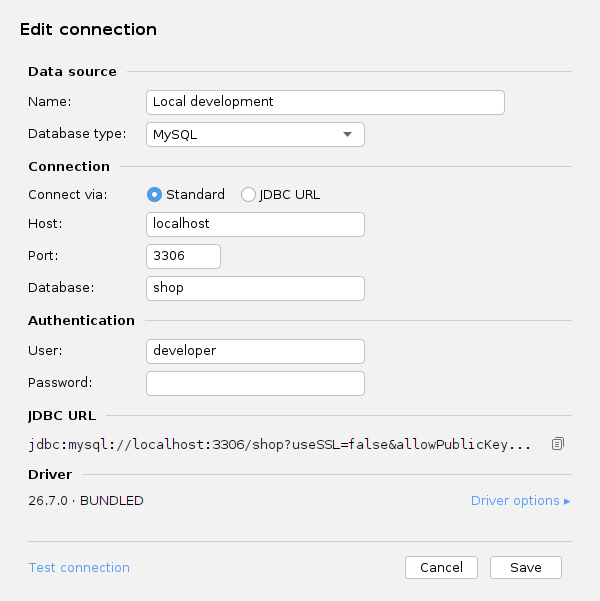
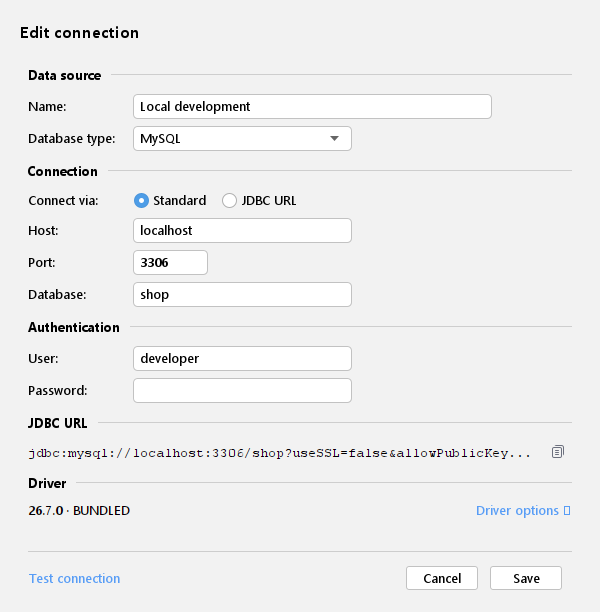
Fix light theme table and toolbar UI

diff --git a/src/uiTest/kotlin/com/segfault03/ideadb/ui/IntellijUiScreenshotTest.kt b/src/uiTest/kotlin/com/segfault03/ideadb/ui/IntellijUiScreenshotTest.kt
@@ -77,9 +77,13 @@ class IntellijUiScreenshotTest {
             Files.isRegularFile(mavenRepository.resolve("com/mysql/mysql-connector-j/$version/mysql-connector-j-$version.jar"))
         }) { "Expected the MySQL Connector/J Maven fixtures in $mavenRepository" }
         Files.createDirectories(projectDirectory.resolve(".idea"))
+        projectDirectory.resolve(".idea/.name").writeText("lattice-ui-test")
+        // JDBC dependencies are supplied locally. Resolving Maven build plugins
+        // over the network can otherwise keep startup indicators busy for minutes.
         projectDirectory.resolve(".idea/workspace.xml").writeText("""
             <project version="4"><component name="MavenImportPreferences">
               <option name="generalSettings"><MavenGeneralSettings>
+                <option name="workOffline" value="true"/>
                 <option name="localRepository" value="${mavenRepository.toString().replace("&", "&amp;").replace("\"", "&quot;")}"/>
               </MavenGeneralSettings></option>
             </component></project>
@@ -97,6 +101,12 @@ class IntellijUiScreenshotTest {
             CurrentTestMethod.hyphenateWithClass(),
             TestCase(ideInfo, LocalProjectInfo(projectDirectory)),
         )
+        // Windows' native idea64 launcher does not consume JDK_JAVA_OPTIONS.
+        // Keep the IDE and the Driver/Robot test JVM in the same coordinate space.
+        testContext.applyVMOptionsPatch {
+            addSystemProperty("sun.java2d.uiScale", "1.0")
+            addSystemProperty("ide.ui.scale", "1.0")
+        }
         // Starter keeps the test IDE's config between runs. Reset only this test plugin's
         // saved connections so every run begins at the same real empty-state screen.
         Files.deleteIfExists(testContext.paths.configDir.resolve("options/LatticeSettings.xml"))
@@ -774,6 +784,19 @@ class IntellijUiScreenshotTest {
             captureScreen(screenshotsDirectory.resolve("table-auto-refresh-options.png"))
             pressEscape()
             if (styleOnly) {
+                assertFilterLayout(tableEditor, 1)
+                tableEditor.x { byAccessibleName("Export data") }.waitFound().click()
+                captureScreen(screenshotsDirectory.resolve("table-export-menu.png"))
+                frame.x { byVisibleText("Current page (includes pending edits)") }.waitFound().click()
+                val sqlExport = frame.xx { byVisibleText("SQL…") }.list().first {
+                    withContext(OnDispatcher.EDT) {
+                        cast(it.component, LiveMenuItem::class).getParent().getInvoker().getText() == "Current page (includes pending edits)"
+                    }
+                }
+                captureScreen(screenshotsDirectory.resolve("table-export-sql-submenu.png"))
+                assertPaintedSurface(sqlExport, dataGrid, "SQL export submenu")
+                pressEscape()
+                pressEscape()
                 frame.resize(narrowWidth, narrowHeight)
                 openToolbarOverflow(tableEditor, "Table actions").also {
                     captureScreen(screenshotsDirectory.resolve("table-narrow-toolbar-expanded-pending.png"))
@@ -783,15 +806,58 @@ class IntellijUiScreenshotTest {
                     assertActionContrast(it.x { byAccessibleName("Revert pending changes") }.waitFound())
                     closeToolbarOverflow(it)
                 }
+                frame.resize(normalWidth, normalHeight)
+                databaseTree.fixture.rightClickPath(peoplePath.joinToString(databaseTree.fixture.separator()))
+                frame.x { byVisibleText("Open in SQL console") }.waitFound().click()
+                val console = frame.x { byJavaClass("com.segfault03.ideadb.ui.SqlQueryConsolePanel") }.waitFound()
+                waitUntil("console database picker ready") { console.x { byVisibleText("Run") }.waitFound().component.isEnabled() }
+                captureScreen(screenshotsDirectory.resolve("sql-console-ready.png"))
+                val reviewedLightThemes = mutableListOf(themeId)
+                // Reuse the live table and console to check every bundled light
+                // palette without repeating IDE startup and database setup.
+                if (System.getProperty("ui.style.lightThemes").toBoolean()) {
+                    for (lightTheme in listOf("ExperimentalLight", "ExperimentalLightWithLightHeader",
+                        "IntelliJ", "JetBrainsLightTheme", "Islands Light").filter {
+                        it != themeId && (it != "Islands Light" || "Islands Light" in availableThemes)
+                    }) {
+                        withContext(OnDispatcher.EDT) {
+                            laf.setCurrentLookAndFeel(laf.findLaf(lightTheme), true)
+                            laf.updateUI()
+                        }
+                        check(laf.getCurrentUIThemeLookAndFeel().getId() == lightTheme)
+                        val themeDirectory = screenshotsDirectory.resolve(lightTheme)
+                        Files.createDirectories(themeDirectory)
+                        captureScreen(themeDirectory.resolve("sql-console-ready.png"))
+                        databaseTree.fixture.rightClickPath(peoplePath.joinToString(databaseTree.fixture.separator()))
+                        frame.x { byVisibleText("Open data editor") }.waitFound().click()
+                        assertFilterLayout(tableEditor, 1)
+                        captureScreen(themeDirectory.resolve("table-filters.png"))
+                        tableEditor.x { byAccessibleName("Export data") }.waitFound().click()
+                        frame.x { byVisibleText("Current page (includes pending edits)") }.waitFound().click()
+                        val themedSqlExport = frame.xx { byVisibleText("SQL…") }.list().first {
+                            withContext(OnDispatcher.EDT) {
+                                cast(it.component, LiveMenuItem::class).getParent().getInvoker().getText() == "Current page (includes pending edits)"
+                            }
+                        }
+                        captureScreen(themeDirectory.resolve("table-export-sql-submenu.png"))
+                        assertPaintedSurface(themedSqlExport, dataGrid, "$lightTheme SQL export submenu")
+                        pressEscape()
+                        pressEscape()
+                        databaseTree.fixture.rightClickPath(peoplePath.joinToString(databaseTree.fixture.separator()))
+                        frame.x { byVisibleText("Open in SQL console") }.waitFound().click()
+                        reviewedLightThemes.add(lightTheme)
+                    }
+                }
                 Files.writeString(screenshotsDirectory.resolve("runtime-evidence.txt"), buildString {
                     appendLine("IDE target: IntelliJ IDEA $productCode ${System.getProperty("ui.ide.version")} (${System.getProperty("ui.ide.build")})")
                     appendLine("Actual IDE theme: ${actualTheme.getName()} (${actualTheme.getId()})")
                     appendLine("Available IDE themes: $availableThemes")
+                    appendLine("Light theme palettes reviewed: $reviewedLightThemes")
                     appendLine("UI driver: JetBrains Starter and Driver; real production DatabaseMainPanel, TableDataEditorPanel, DatabaseTable and JTable editors")
                     appendLine("IDE JBR release: ${Files.readString(ideHome.resolve("jbr/release")).lineSequence().filter { it.startsWith("JAVA_VERSION=") || it.startsWith("IMPLEMENTOR=") }.joinToString(", ")}")
                     appendLine("IDE display: ${displayBounds.width}x${displayBounds.height}; scale 1")
                     appendLine("Verified: six explorer actions in native hover overflow and working Add Connection invoker; failed connection status; valid/invalid/unchanged table edits; text and integer editor theme surfaces; native menu background; full auto-refresh caption; white active action labels and painted glyphs in normal and overflow toolbars")
-                    appendLine("Scope: focused UI regressions; the default review continues through commit, export, alter-table and SQL flows")
+                    appendLine("Scope: focused UI regressions including SQL export submenu palette, table filters and console layout; the default review continues through commit, export, alter-table and SQL flows")
                 })
                 println("Focused real IDE UI regression review passed: $themeId")
                 return@useDriverAndCloseIde
@@ -1545,7 +1611,15 @@ class IntellijUiScreenshotTest {
         val popups = toolbar.driver.ui.xx {
             byType("com.intellij.openapi.actionSystem.impl.ActionToolbarImpl\$PopupToolbar")
         }.list().map { toolbar.driver.cast(it.component, LiveSwingComponent::class) }
-        Robot().mouseMove(10, 10)
+        var outside = Point()
+        toolbar.driver.ui.ideFrame {
+            val origin = component.getLocationOnScreen()
+            outside = Point(origin.x + component.width / 2, origin.y + component.height / 2)
+        }
+        val robot = Robot()
+        robot.mouseMove(outside.x, outside.y)
+        robot.mousePress(InputEvent.BUTTON1_DOWN_MASK)
+        robot.mouseRelease(InputEvent.BUTTON1_DOWN_MASK)
         pressEscape()
         waitUntil("native hover toolbar dismissed") {
             popups.all { !it.isShowing() }

diff --git a/src/main/java/com/segfault03/ideadb/ui/TableFilterPanel.java b/src/main/java/com/segfault03/ideadb/ui/TableFilterPanel.java
@@ -8,7 +8,9 @@ import java.awt.*;
 final class TableFilterPanel extends JPanel {
     private final JComponent where, order;
     private final JButton apply;
+    private final JPanel remainder = new JPanel();
     private int rows;
+    private boolean shrinking;
 
     TableFilterPanel(JComponent where, JComponent order, JButton apply) {
         super(new GridBagLayout());
@@ -23,6 +25,10 @@ final class TableFilterPanel extends JPanel {
             add(group);
         }
         add(apply);
+        remainder.setOpaque(false);
+        remainder.setPreferredSize(new Dimension());
+        remainder.setMinimumSize(new Dimension());
+        add(remainder);
     }
 
     @Override public Dimension getPreferredSize() { configure(); return super.getPreferredSize(); }
@@ -36,12 +42,18 @@ final class TableFilterPanel extends JPanel {
         int actionWidth = apply.getPreferredSize().width;
         int next = width <= 0 || width >= where.getMinimumSize().width + order.getMinimumSize().width + actionWidth + 2 * gap
                 ? 1 : width >= order.getMinimumSize().width + actionWidth + gap ? 2 : 3;
-        if (next == rows) return;
+        boolean shrink = next == 1 && width > 0
+                && width < where.getPreferredSize().width + order.getPreferredSize().width + actionWidth + 2 * gap;
+        if (next == rows && shrink == shrinking) return;
         rows = next;
+        shrinking = shrink;
         GridBagLayout layout = (GridBagLayout) getLayout();
-        layout.setConstraints(where, cell(0, 0, rows == 1 ? 1 : 2, .6, rows == 1 ? gap : 0));
-        layout.setConstraints(order, cell(rows == 1 ? 1 : 0, rows == 1 ? 0 : 1, rows == 3 ? 2 : 1, .4, rows == 3 ? 0 : gap));
+        layout.setConstraints(where, cell(0, 0, rows == 1 ? 1 : 2, shrink ? .6 : 0, rows == 1 ? gap : 0));
+        layout.setConstraints(order, cell(rows == 1 ? 1 : 0, rows == 1 ? 0 : 1, rows == 3 ? 2 : 1, shrink ? .4 : 0, rows == 3 ? 0 : gap));
         layout.setConstraints(apply, cell(rows == 1 ? 2 : rows == 2 ? 1 : 0, rows == 1 ? 0 : rows == 2 ? 1 : 2, 1, 0, 0));
+        GridBagConstraints trailing = cell(rows == 1 ? 3 : 2, 0, 1, shrink ? 0 : 1, 0);
+        trailing.gridheight = rows;
+        layout.setConstraints(remainder, trailing);
     }
 
     private static GridBagConstraints cell(int column, int row, int span, double weight, int rightGap) {
@@ -51,7 +63,7 @@ final class TableFilterPanel extends JPanel {
         cell.gridwidth = span;
         cell.weightx = weight;
         cell.anchor = GridBagConstraints.WEST;
-        cell.fill = weight > 0 ? GridBagConstraints.HORIZONTAL : GridBagConstraints.NONE;
+        cell.fill = GridBagConstraints.HORIZONTAL;
         cell.insets = JBUI.insets(row > 0 ? 4 : 0, 0, 0, 0);
         cell.insets.right = rightGap;
         return cell;

diff --git a/src/test/java/com/segfault03/ideadb/ui/TableFilterPanelTest.java b/src/test/java/com/segfault03/ideadb/ui/TableFilterPanelTest.java
@@ -1,0 +1,44 @@
+package com.segfault03.ideadb.ui;
+
+import org.junit.jupiter.api.Test;
+import javax.swing.*;
+import java.awt.*;
+import static org.junit.jupiter.api.Assertions.*;
+
+class TableFilterPanelTest {
+    @Test void filtersStayCompactAndWrapWithoutClipping() throws Exception {
+        SwingUtilities.invokeAndWait(() -> {
+            JPanel where = DatabaseUi.labeledInput(new JLabel("WHERE"), DatabaseInputs.textField(20));
+            JPanel order = DatabaseUi.labeledInput(new JLabel("ORDER BY"), DatabaseInputs.textField(14));
+            JButton apply = DatabaseUi.action("Apply", null, "Apply filter");
+            TableFilterPanel panel = new TableFilterPanel(where, order, apply);
+            int compactWidth = where.getPreferredSize().width + order.getPreferredSize().width
+                    + apply.getPreferredSize().width + com.intellij.util.ui.JBUI.scale(16);
+            for (int width : new int[]{1600, compactWidth, 450, 230, 1600}) {
+                panel.setSize(width, 150);
+                panel.doLayout();
+                where.doLayout();
+                order.doLayout();
+                for (Component control : new Component[]{where, order, apply}) {
+                    assertTrue(control.getX() >= 0);
+                    assertTrue(control.getX() + control.getWidth() <= width);
+                    assertTrue(control.getHeight() > 0);
+                }
+                if (width >= compactWidth) {
+                    assertEquals(where.getPreferredSize().width, where.getWidth());
+                    assertEquals(order.getPreferredSize().width, order.getWidth());
+                    assertEquals(where.getY(), order.getY());
+                    if (width == 1600) assertTrue(apply.getX() + apply.getWidth() < width / 2);
+                } else if (width == 230) assertTrue(order.getY() > where.getY());
+                else assertEquals(where.getY(), order.getY(), "Intermediate widths shrink fields before wrapping");
+                for (JPanel group : new JPanel[]{where, order}) {
+                    BorderLayout layout = (BorderLayout) group.getLayout();
+                    Component label = layout.getLayoutComponent(BorderLayout.WEST);
+                    Component field = layout.getLayoutComponent(BorderLayout.CENTER);
+                    assertEquals(layout.getHgap(), field.getX() - label.getX() - label.getWidth());
+                    assertTrue(field.getWidth() >= 80);
+                }
+            }
+        });
+    }
+}

diff --git a/src/main/java/com/segfault03/ideadb/ui/TableDataEditorPanel.java b/src/main/java/com/segfault03/ideadb/ui/TableDataEditorPanel.java
@@ -138,9 +138,6 @@ public class TableDataEditorPanel extends JPanel implements AutoCloseable {
         filterBtn.addActionListener(e -> loadData(1, pageSize));
         JBLabel whereLabel = new JBLabel("WHERE");
         JBLabel orderLabel = new JBLabel("ORDER BY");
-        int filterLabelWidth = Math.max(whereLabel.getPreferredSize().width, orderLabel.getPreferredSize().width);
-        whereLabel.setPreferredSize(new Dimension(filterLabelWidth, whereLabel.getPreferredSize().height));
-        orderLabel.setPreferredSize(new Dimension(filterLabelWidth, orderLabel.getPreferredSize().height));
         JPanel filters = new TableFilterPanel(DatabaseUi.labeledInput(whereLabel, whereField),
                 DatabaseUi.labeledInput(orderLabel, orderField), filterBtn);
         filters.setBorder(BorderFactory.createCompoundBorder(
@@ -824,7 +821,7 @@ public class TableDataEditorPanel extends JPanel implements AutoCloseable {
     }
 
     private void addExportFormats(JPopupMenu menu,String label,ExportScope scope) {
-        JMenu submenu=new JMenu(label);
+        JMenu submenu=DatabaseUi.submenu(label);
         for(String format:new String[]{"csv","json","sql"}) {
             JMenuItem item=new JMenuItem(format.toUpperCase(java.util.Locale.ROOT) + "…");
             item.addActionListener(event -> exportData(format,scope)); submenu.add(item);

diff --git a/src/test/java/com/segfault03/ideadb/ui/DatabaseUiTest.java b/src/test/java/com/segfault03/ideadb/ui/DatabaseUiTest.java
@@ -7,6 +7,27 @@ import java.awt.*;
 import static org.junit.jupiter.api.Assertions.*;
 
 class DatabaseUiTest {
+    @Test void exportSubmenusUseTheNativePopupSurfaceAndKeepSwingMenuNavigation() throws Exception {
+        SwingUtilities.invokeAndWait(() -> {
+            JMenu submenu = DatabaseUi.submenu("Current page");
+            JMenuItem sql = new JMenuItem("SQL…");
+            java.util.concurrent.atomic.AtomicInteger calls = new java.util.concurrent.atomic.AtomicInteger();
+            sql.addActionListener(event -> calls.incrementAndGet());
+            submenu.add(sql);
+            for (int pass = 0; pass < 2; pass++) {
+                if (pass > 0) SwingUtilities.updateComponentTreeUI(submenu);
+                JPopupMenu popup = submenu.getPopupMenu();
+                assertFalse(popup.isOpaque());
+                assertFalse(popup.isLightWeightPopupEnabled());
+                assertSame(submenu, popup.getInvoker());
+                assertSame(sql, submenu.getItem(0));
+                assertSame(popup, submenu.getSubElements()[0]);
+            }
+            sql.doClick(0);
+            assertEquals(1, calls.get());
+        });
+    }
+
     @Test void emphasizedGlyphIsWhiteRatherThanGrayAndPreservesTransparency() throws Exception {
         SwingUtilities.invokeAndWait(() -> {
             Icon gray = new Icon() {

diff --git a/src/main/java/com/segfault03/ideadb/ui/DatabaseExplorerToolbar.java b/src/main/java/com/segfault03/ideadb/ui/DatabaseExplorerToolbar.java
@@ -24,9 +24,7 @@ final class DatabaseExplorerToolbar extends JPanel {
                             Runnable removeConnection, Runnable refreshConnection,
                             Runnable openConsole, Runnable showHelp) {
         setLayout(new BoxLayout(this, BoxLayout.X_AXIS));
-        setBorder(BorderFactory.createCompoundBorder(
-                JBUI.Borders.customLineBottom(JBUI.CurrentTheme.ActionButton.SEPARATOR_COLOR),
-                JBUI.Borders.empty(6, 12)));
+        setBorder(JBUI.Borders.empty(6, 12));
         add = button(AllIcons.General.Add, "Add connection…", null, true);
         add.addActionListener(e -> addConnection.accept((Component)e.getSource()));
         edit = button(AllIcons.General.Settings, "Edit connection…", editConnection);
@@ -44,9 +42,6 @@ final class DatabaseExplorerToolbar extends JPanel {
         removeAll(); // Transfer the existing production controls and their listeners.
         JComponent toolbar = DatabaseActionToolbar.create(target, "Explorer actions",
                 add, edit, remove, null, refresh, console, null, help);
-        toolbar.setBorder(BorderFactory.createCompoundBorder(
-                JBUI.Borders.customLineBottom(JBUI.CurrentTheme.ActionButton.SEPARATOR_COLOR),
-                toolbar.getBorder()));
         return toolbar;
     }
 

diff --git a/src/main/java/com/segfault03/ideadb/ui/DatabaseUi.java b/src/main/java/com/segfault03/ideadb/ui/DatabaseUi.java
@@ -22,6 +22,20 @@ public final class DatabaseUi {
     /** Native IDEA popup painting, palette, borders and window handling in every theme. */
     public static JPopupMenu popupMenu() { return new com.intellij.openapi.ui.JBPopupMenu(); }
 
+    /** Match JBPopupMenu's surface/window settings for Swing's internally owned submenus. */
+    public static JMenu submenu(String text) {
+        return new JMenu(text) {
+            @Override public JPopupMenu getPopupMenu() {
+                JPopupMenu popup = super.getPopupMenu();
+                // IDEA's popup UI paints the theme surface; Swing's opaque fill can
+                // cover it with a black rectangle in native light themes.
+                popup.setOpaque(false);
+                popup.setLightWeightPopupEnabled(false);
+                return popup;
+            }
+        };
+    }
+
     /** Every connection entry point offers the same database choice. */
     public static JPopupMenu connectionMenu(Consumer<DatabaseType> choose) {
         JPopupMenu menu = popupMenu();

diff --git a/src/test/java/com/segfault03/ideadb/ui/DatabaseExplorerToolbarTest.java b/src/test/java/com/segfault03/ideadb/ui/DatabaseExplorerToolbarTest.java
@@ -20,6 +20,8 @@ class DatabaseExplorerToolbarTest {
             Runnable action = calls::incrementAndGet;
             DatabaseExplorerToolbar toolbar = new DatabaseExplorerToolbar(
                     component -> action.run(), action, action, action, action, action);
+            assertInstanceOf(javax.swing.border.EmptyBorder.class, toolbar.getBorder(),
+                    "The explorer must leave the section boundary to the IDE tool-window header");
             List<JButton> buttons = new ArrayList<>();
             for (Component child : toolbar.getComponents()) {
                 if (child instanceof JButton button) buttons.add(button);

diff --git a/src/main/java/com/segfault03/ideadb/ui/SqlQueryConsolePanel.java b/src/main/java/com/segfault03/ideadb/ui/SqlQueryConsolePanel.java
@@ -249,10 +249,6 @@ public class SqlQueryConsolePanel extends JPanel implements AutoCloseable {
 
     private JPanel labeledPicker(String text, JComponent picker) {
         JBLabel label = new JBLabel(text);
-        int width = 0;
-        for (String title : new String[]{"Database", "History", "Template"})
-            width = Math.max(width, new JBLabel(title).getPreferredSize().width);
-        label.setPreferredSize(new Dimension(width, label.getPreferredSize().height));
         label.setLabelFor(picker);
         return DatabaseUi.labeledInput(label, picker);
     }

diff --git a/docs/UI_PREVIEW.md b/docs/UI_PREVIEW.md
@@ -36,9 +36,13 @@ python scripts/ui-preview.py --java-home /path/to/jdk-21 --ide-home /path/to/int
 
 `--all-previews` adds light and dark variants to the gallery; `--output` changes generated build output but still refreshes the five README images; `--compare-with` adds a before/after gallery. The helper requires the IntelliJ 2025.1 SDK and JUnit/Hamcrest runtime jars in the selected Gradle cache, or explicit JDK/SDK paths.
 
-These previews show component layout and Swing painting with fixture data. For IDE chrome, live plugin loading, tool-window behavior and database-backed flows, Linux users can use [`capture-intellij-ui.sh`](../scripts/linux/capture-intellij-ui.sh) or [`review-intellij-ui.sh`](../scripts/linux/review-intellij-ui.sh). Windows users can use [`capture-intellij-ui.ps1`](../scripts/windows/capture-intellij-ui.ps1) or [`review-intellij-ui.ps1`](../scripts/windows/review-intellij-ui.ps1) from an interactive desktop session; captures use the primary display, which must be at least 1440×800. Keep the test IDE visible and in the foreground while automation runs. Their setup and output paths are documented in the [script reference](SCRIPTS.md).
+These previews show component layout and Swing painting with fixture data. For IDE chrome, live plugin loading, tool-window behavior and database-backed flows, Linux users can use [`capture-intellij-ui.sh`](../scripts/linux/capture-intellij-ui.sh) or [`review-intellij-ui.sh`](../scripts/linux/review-intellij-ui.sh). Windows users can use [`capture-intellij-ui.ps1`](../scripts/windows/capture-intellij-ui.ps1) or [`review-intellij-ui.ps1`](../scripts/windows/review-intellij-ui.ps1) from an interactive desktop session; captures use the primary display, which must be at least 1440×800. Windows capture automatically restores the newly launched `lattice-ui-test` IDE when another application takes the foreground, preserving focus in IDE dialogs and popups. Allow the capture script to use the desktop while it runs; a locked desktop still prevents capture. Their setup and output paths are documented in the [script reference](SCRIPTS.md).
 
 Windows PowerShell examples:
+
+The test applies 100% scaling directly to the IDE VM options as well as the Driver JVM, so Windows display scaling does not offset automated clicks. The fixture Maven project imports offline from its prepared JDBC repository.
+
+For a focused palette review, pass `-StyleOnly -GradleArgs @('-Plattice.ui.lightThemes=true')` to Windows capture. It switches the running IDE through the bundled light themes (including Islands Light when available) and checks the SQL export submenu against the table palette, saving table and console captures for each theme.
 
 ```powershell
 .\scripts\windows\capture-intellij-ui.ps1 -JavaHome 'C:/path/to/jdk-21' -IdeHome 'C:/path/to/IntelliJ IDEA 2025.1' -InputsOnly

diff --git a/docs/SCRIPTS.md b/docs/SCRIPTS.md
@@ -27,7 +27,7 @@ $assets = 'C:\path\to\test-binaries'
 .\scripts\windows\probe-hsqldb-cancellation.ps1 --java-home "$assets\ides\2025.1\jbr"
 ```
 
-The two Windows UI scripts use native PowerShell flags: `-JavaHome`, `-IdeHome` (IDE to launch), `-BuildIdeHome` (2025.1 compile SDK), `-DownloadDir`, `-BinariesDir`, `-GradleUserHome`, `-Cleanup` / `-NoCleanup`, and `-Python`. Review additionally accepts `-FixtureCache` (mysql/ and hsqldb/ JDBC folders) and `-MavenRepository` (a reusable Maven-layout fixture repository). Missing jars are prepared for both capture and review. The UI bootstrap defaults to retention; cleanup leaves screenshots and logs under build/. Use an interactive desktop with the test IDE in the foreground.
+The two Windows UI scripts use native PowerShell flags: `-JavaHome`, `-IdeHome` (IDE to launch), `-BuildIdeHome` (2025.1 compile SDK), `-DownloadDir`, `-BinariesDir`, `-GradleUserHome`, `-Cleanup` / `-NoCleanup`, and `-Python`. Review additionally accepts `-FixtureCache` (mysql/ and hsqldb/ JDBC folders) and `-MavenRepository` (a reusable Maven-layout fixture repository). Missing jars are prepared for both capture and review. The UI bootstrap defaults to retention; cleanup leaves screenshots and logs under build/. Use an interactive desktop; capture automatically restores the newly launched test IDE to the foreground while preserving its dialogs and menus.
 
 ```powershell
 .\scripts\windows\review-intellij-ui.ps1 -Themes @('ExperimentalDark') -StyleOnly -BinariesDir $assets -DownloadDir "$assets\downloads" -GradleUserHome "$env:USERPROFILE\.gradle" -Cleanup
